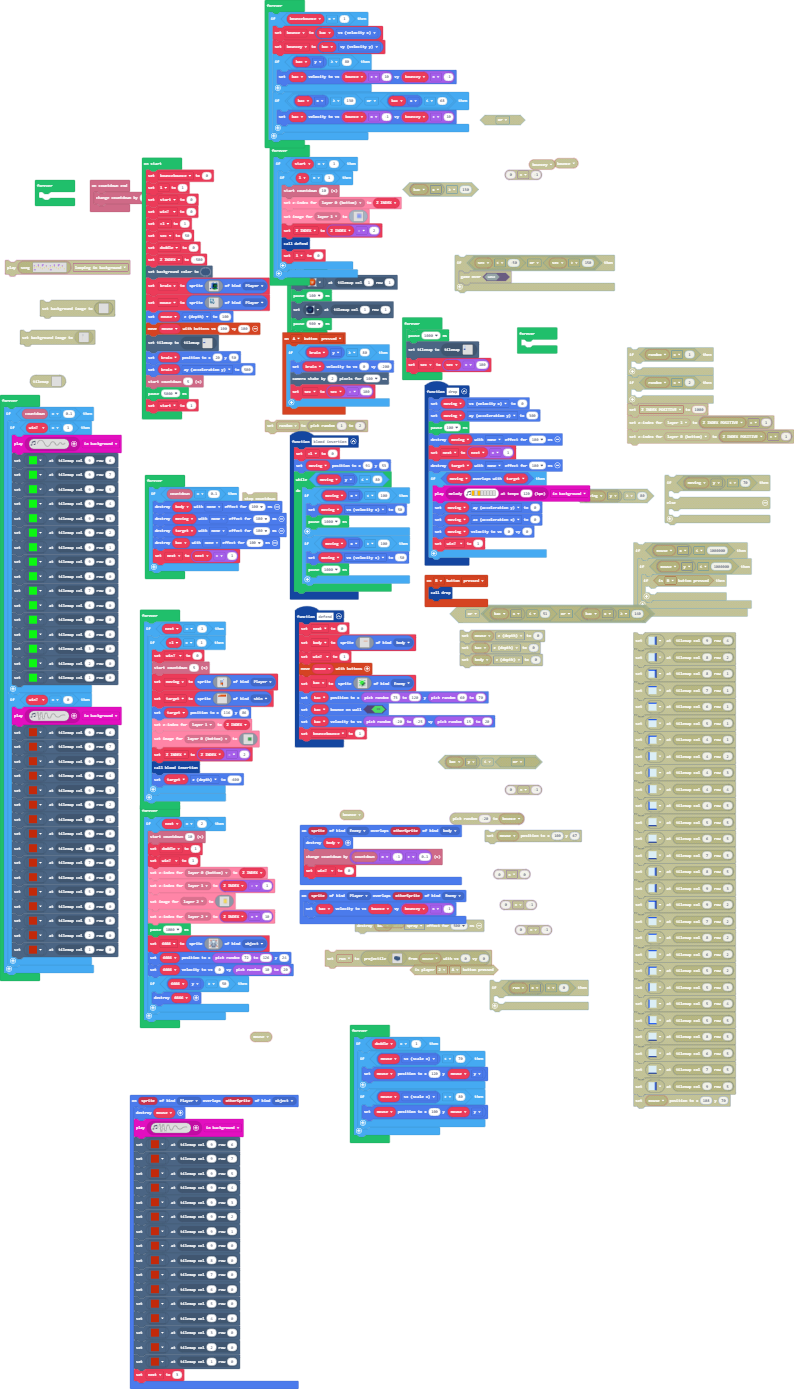
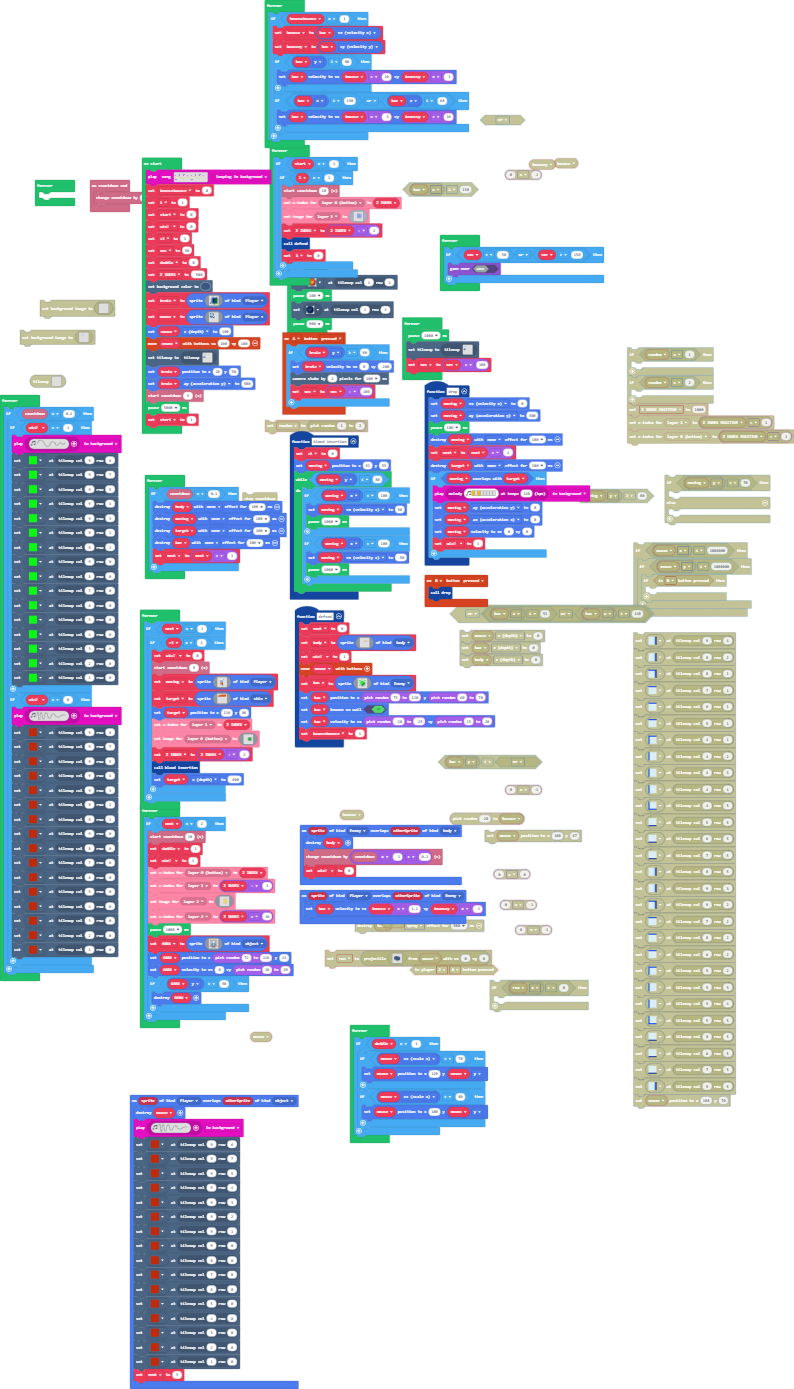
Update main.blocks, main.ts

Changed region(s): [[0.0, 0.1238, 0.3627, 0.3096], [0.5441, 0.1548, 0.7859, 0.2786], [0.4836, 0.6501, 0.6045, 0.6811]]

diff --git a/main.ts b/main.ts
@@ -221,7 +221,7 @@ function blood_insertion () {
     }
 }
 sprites.onOverlap(SpriteKind.Player, SpriteKind.Enemy, function (sprite, otherSprite) {
-    bac.setVelocity(bounce, bouncey * -1)
+    bac.setVelocity(bounce * 1.1, bouncey * -1)
 })
 let bouncey = 0
 let bounce = 0
@@ -237,6 +237,7 @@ let _12 = 0
 let win = 0
 let bouncebounce = 0
 let _6666: Sprite = null
+music.play(music.createSong(assets.song`bgm`), music.PlaybackMode.LoopingInBackground)
 bouncebounce = 0
 let _1 = 1
 let start = 0
@@ -439,6 +440,11 @@ forever(function () {
 	
 })
 forever(function () {
+    if (sec < -50 || sec > 150) {
+        game.gameOver(false)
+    }
+})
+forever(function () {
     tiles.setTileAt(tiles.getTileLocation(1, 1), assets.tile`myTile16`)
     pause(100)
     tiles.setTileAt(tiles.getTileLocation(1, 1), assets.tile`myTile15`)
@@ -448,9 +454,6 @@ forever(function () {
     pause(1000)
     tiles.setCurrentTilemap(tilemap`level6`)
     sec = sec + 100
-})
-forever(function () {
-	
 })
 forever(function () {
     if (info.countdown() == 0.1) {
